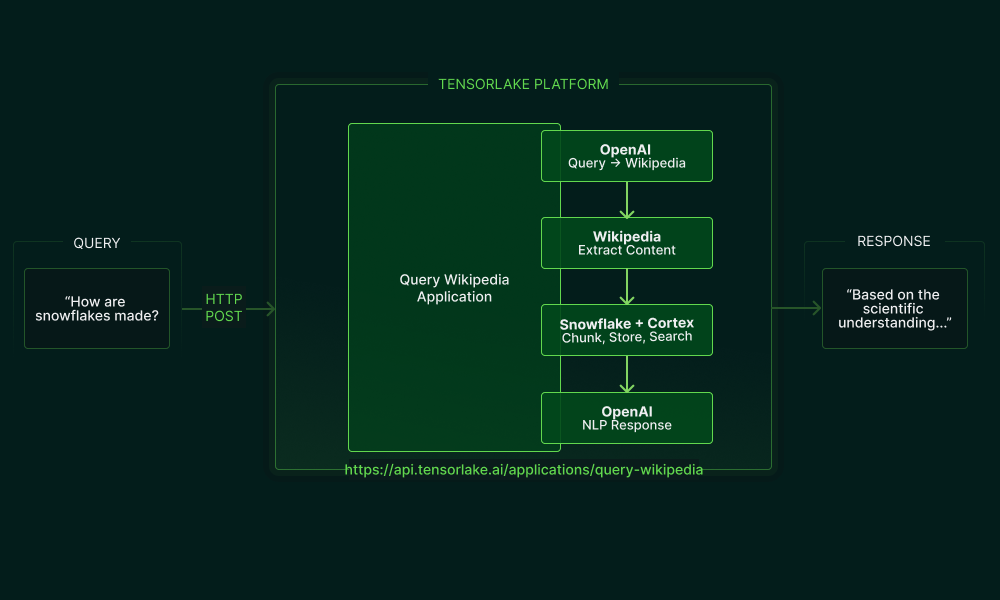
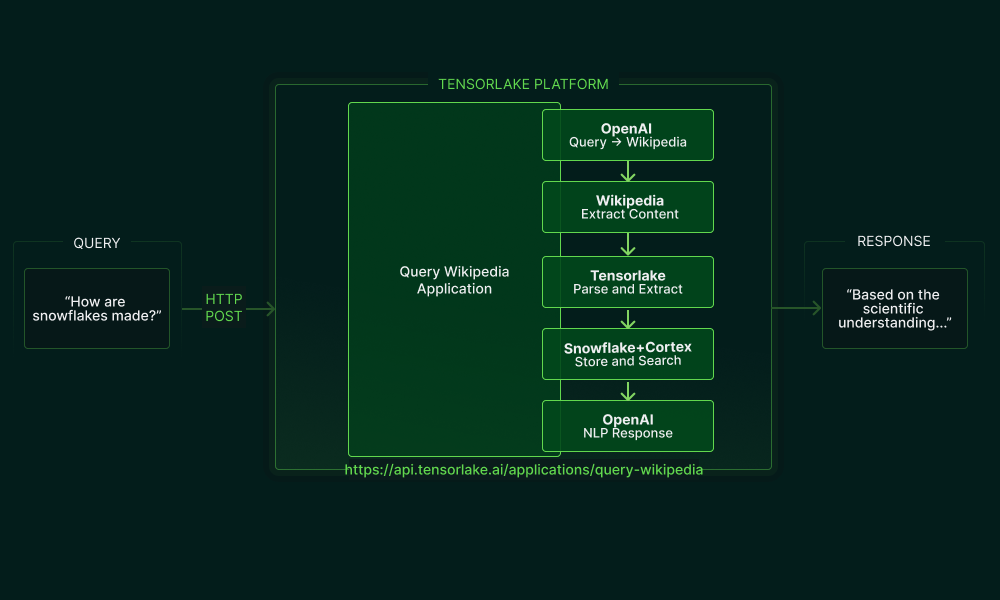
Adding the third example

diff --git a/query-wikipedia/README.md b/query-wikipedia/README.md
@@ -1,40 +1,50 @@
-# Wikipedia Knowledge Base with Snowflake Integration
+# Wikipedia Knowledge Base with Tensorlake + Snowflake + OpenAI
 
-This example demonstrates how to build an intelligent Q&A system that fetches Wikipedia articles, chunks them semantically, stores them in Snowflake, and answers questions using RAG (Retrieval-Augmented Generation).
+This example demonstrates how to build an intelligent Q&A system that uses Tensorlake's data processing capabilities to parse and chunk Wikipedia articles, stores them in Snowflake with Cortex Search, and generates answers using OpenAI's GPT-4.
 
-**NOTE: This example is coming soon**
+**NOTE: A full working example is coming soon**
 
 ## Overview
 
-This Tensorlake Application showcases a complete knowledge base pipeline:
+This Tensorlake application showcases a complete RAG pipeline with best-in-class tools:
 
-1. **`query-wikipedia.py`** - Intelligent Wikipedia article fetcher and Q&A system that:
-   - Uses AI to identify the most relevant Wikipedia article for any query
-   - Fetches and chunks articles into semantic segments
-   - Stores content in Snowflake with optional vector embeddings
-   - Performs intelligent retrieval using multiple search strategies
-   - Generates accurate answers using RAG with OpenAI
+1. **`query-wikipedia.py`** - Intelligent Wikipedia knowledge base that:
+   - Uses OpenAI GPT-4 to identify the most relevant Wikipedia article
+   - Fetches articles and uses **Tensorlake DocumentAI** for intelligent parsing and chunking
+   - Stores structured chunks in Snowflake with metadata
+   - Performs retrieval using **Snowflake Cortex Search** (with fallback options)
+   - Generates accurate answers using **OpenAI GPT-4** with retrieved context
+
+## Architecture
+
+- **Article Selection**: OpenAI identifies the best Wikipedia article for any query
+- **Document Processing**: Tensorlake DocumentAI handles parsing and chunking
+- **Storage & Search**: Snowflake stores chunks with Cortex Search for intelligent retrieval
+- **Answer Generation**: OpenAI GPT-4 generates contextual answers from retrieved chunks
+- **Persistent Knowledge**: Each query enriches your searchable knowledge base
 
 ## How It Works
+```
+User Query → OpenAI (topic extraction) → Wikipedia API → Tensorlake (parsing & chunking) 
+→ Snowflake (storage) → Cortex Search (retrieval) → OpenAI (answer generation) → Response
+```
 
-Ask any question → AI finds the right Wikipedia article → Content is chunked and stored → Semantic search finds relevant sections → AI generates an answer from the context
-
-![Diagram of the Tensorlake Application that stores wikipedia pages in Snowflake for NLP querying with OpenAI.](./Snowflake_Wikipedia_Diagram.png)
+![A diagram outlining the entire pipeline of the APplication](./Snowflake_Wikipedia_Diagram.png)
 
 ## Example Queries
 
 - "How do snowflakes form in the atmosphere?"
 - "What causes volcanic eruptions?"
-- "How does photosynthesis work?"
-- "What is quantum entanglement?"
+- "Explain quantum entanglement"
+- "How does photosynthesis work in plants?"
 
 ## Getting Started
 
 ### Prerequisites
 
-- Tensorlake API key
+- Tensorlake API key (for document processing)
+- OpenAI API key (for LLM capabilities)
 - Snowflake account with credentials
-- OpenAI API key for LLM capabilities
 - Python 3.11+
 
 ### Local Testing
@@ -61,18 +71,14 @@ export SNOWFLAKE_SCHEMA=ARTICLES
 python query-wikipedia.py
 ```
 
-Or modify the query in the script:
-```python
-query = "Your question here"
-```
-
 ### Deploying to Tensorlake Cloud
 
 #### 1. Set Secrets
 ```bash
+tensorlake secrets set TENSORLAKE_API_KEY='YOUR_TENSORLAKE_API_KEY'
 tensorlake secrets set OPENAI_API_KEY='YOUR_OPENAI_API_KEY'
 tensorlake secrets set SNOWFLAKE_ACCOUNT='YOUR_SNOWFLAKE_ACCOUNT'
-tensorlake secrets set SNOWFLAKE_USER='YOUR_SNOWFLAKE_USER'
+tensorlake secrets set SNOWFLAKE_USER='YOUR_SNOWFLAKE_USER'  
 tensorlake secrets set SNOWFLAKE_PASSWORD='YOUR_SNOWFLAKE_PASSWORD'
 tensorlake secrets set SNOWFLAKE_WAREHOUSE='COMPUTE_WH'
 tensorlake secrets set SNOWFLAKE_DATABASE='WIKIPEDIA_KB'
@@ -92,15 +98,14 @@ curl -X POST https://api.tensorlake.ai/applications/query-wikipedia \
   -d '{"query": "How do snowflakes form?"}'
 ```
 
-## Architecture
+## Key Features
 
-- **Intelligent Article Selection**: Uses LLM to map queries to Wikipedia topics
-- **Semantic Chunking**: Splits articles preserving paragraph boundaries
-- **Multi-Strategy Search**: Falls back gracefully from vector → semantic → keyword search
-- **Snowflake Storage**: Persistent knowledge base that grows with each query
-- **RAG Generation**: Combines retrieved context with LLM for accurate answers
+- **Intelligent Document Processing**: Tensorlake DocumentAI provides superior parsing that preserves semantic meaning
+- **Flexible Search**: Automatically uses Cortex Search when available, falls back to text search
+- **Growing Knowledge Base**: Each query adds to your persistent Wikipedia knowledge base
+- **Production Ready**: Handles errors gracefully with multiple fallback strategies
 
 ## Files
 
-- `query-wikipedia.py` - Main application that fetches, stores, and queries Wikipedia content
+- `query-wikipedia.py` - Main application orchestrating the entire pipeline
 - `README.md` - This file

diff --git a/document-qa/README.md b/document-qa/README.md
@@ -1,0 +1,143 @@
+# Document Q&A with Snowflake Cortex + OpenAI
+
+This example demonstrates a document Q&A system that accepts any document URL, uses Snowflake Cortex to parse and chunk it, performs intelligent search with Cortex Search, and generates answers using OpenAI.
+
+**NOTE: A full working example is coming soon**
+
+## Overview
+
+This Tensorlake application showcases Snowflake Cortex's complete document processing capabilities:
+
+1. **`document-qa.py`** - Document processing and Q&A system that:
+   - Accepts any document URL (PDFs, web pages, text files)
+   - Uses **Snowflake Cortex PARSE_DOCUMENT** for document parsing
+   - Chunks content using **Snowflake Cortex text splitting functions**
+   - Indexes chunks with **Snowflake Cortex Search** for hybrid retrieval
+   - Generates precise answers using **OpenAI GPT-4** with retrieved context
+
+## Architecture
+```
+Document URL → Fetch → Snowflake Cortex (parse & chunk) → Cortex Search (index)
+User Query → Cortex Search (retrieve) → OpenAI GPT-4 (generate) → Answer
+```
+
+![A diagram of the pipeline for this Application](./Snowflake_DocQA_Diagram.png)
+
+## Key Features
+
+- **Native Snowflake Processing**: All document processing happens within Snowflake
+- **Cortex Document Parser**: Handles PDFs, text, and various document formats
+- **Intelligent Chunking**: Cortex text splitting preserves semantic boundaries
+- **Hybrid Search**: Cortex Search combines keyword and semantic retrieval
+- **Contextual Answers**: OpenAI generates answers grounded in document content
+- **Unified Platform**: Minimal data movement - everything stays in Snowflake
+
+## Example Usage
+
+Process documents and ask questions:
+```python
+# Process a PDF document
+document_url = "https://www.sec.gov/Archives/edgar/data/1318605/000095017022000796/tsla-20211231.pdf"
+query = "What are the main risk factors?"
+
+# Process a web page
+document_url = "https://docs.snowflake.com/en/user-guide/cortex-search"
+query = "How does hybrid search work?"
+
+# Process a text document
+document_url = "https://raw.githubusercontent.com/example/repo/main/README.md"
+query = "What are the installation steps?"
+```
+
+## Getting Started
+
+### Prerequisites
+
+- Tensorlake API key (for orchestration)
+- Snowflake account with Cortex features enabled
+- OpenAI API key (for answer generation)
+- Python 3.11+
+
+### Snowflake Setup
+
+Ensure your Snowflake account has:
+- Cortex AI features enabled
+- Access to `SNOWFLAKE.CORTEX.PARSE_DOCUMENT`
+- Access to `SNOWFLAKE.CORTEX.SPLIT_TEXT_RECURSIVE_CHARACTER`
+- Cortex Search Service capabilities
+
+### Local Testing
+
+#### 1. Install Dependencies
+```bash
+pip install --upgrade tensorlake snowflake-connector-python openai requests
+```
+
+#### 2. Set Environment Variables
+```bash
+export TENSORLAKE_API_KEY=YOUR_TENSORLAKE_API_KEY
+export OPENAI_API_KEY=YOUR_OPENAI_API_KEY
+export SNOWFLAKE_ACCOUNT=YOUR_SNOWFLAKE_ACCOUNT
+export SNOWFLAKE_USER=YOUR_SNOWFLAKE_USER
+export SNOWFLAKE_PASSWORD=YOUR_SNOWFLAKE_PASSWORD
+export SNOWFLAKE_WAREHOUSE=COMPUTE_WH
+export SNOWFLAKE_DATABASE=DOCUMENT_QA
+export SNOWFLAKE_SCHEMA=CORTEX_DOCS
+```
+
+#### 3. Run Document Q&A
+```bash
+python document-qa.py --url "https://example.com/document.pdf" --query "Your question here"
+```
+
+### Deploying to Tensorlake Cloud
+
+#### 1. Set Secrets
+```bash
+tensorlake secrets set TENSORLAKE_API_KEY='YOUR_KEY'
+tensorlake secrets set OPENAI_API_KEY='YOUR_KEY'
+tensorlake secrets set SNOWFLAKE_ACCOUNT='YOUR_ACCOUNT'
+tensorlake secrets set SNOWFLAKE_USER='YOUR_USER'
+tensorlake secrets set SNOWFLAKE_PASSWORD='YOUR_PASSWORD'
+tensorlake secrets set SNOWFLAKE_WAREHOUSE='COMPUTE_WH'
+tensorlake secrets set SNOWFLAKE_DATABASE='DOCUMENT_QA'
+tensorlake secrets set SNOWFLAKE_SCHEMA='CORTEX_DOCS'
+```
+
+#### 2. Deploy Application
+```bash
+tensorlake deploy document-qa.py
+```
+
+#### 3. Query via API
+```bash
+curl -X POST https://api.tensorlake.ai/applications/document-qa \
+  -H "Authorization: Bearer YOUR_TENSORLAKE_API_KEY" \
+  -H "Content-Type: application/json" \
+  -d '{
+    "document_url": "https://example.com/document.pdf",
+    "query": "What are the key findings?"
+  }'
+```
+
+## How It Works
+
+1. **Document Fetching**: Application fetches document from URL
+2. **Cortex Parsing**: `PARSE_DOCUMENT` extracts text and structure
+3. **Cortex Chunking**: `SPLIT_TEXT_RECURSIVE_CHARACTER` creates semantic chunks
+4. **Storage & Indexing**: Chunks stored and indexed with Cortex Search
+5. **Query Processing**: Cortex Search finds relevant chunks
+6. **Answer Generation**: OpenAI GPT-4 synthesizes answer from context
+
+## Supported Document Types
+
+Via Snowflake Cortex:
+- **PDFs**: Including complex layouts and tables
+- **Text Files**: Plain text, markdown, CSV
+- **Office Documents**: When supported by Cortex
+- **Web Pages**: HTML content (fetched as text)
+
+## Files
+
+- `document-qa.py` - Main application for document Q&A
+- `README.md` - This file

diff --git a/README.md b/README.md
@@ -48,19 +48,25 @@ Try out the [code here](https://github.com/tensorlakeai/snowflake/tree/main/sec-
 
 ### Blueprint: Structured Data Extraction
 
-![Diagram of the Tensorlake Application that stores wikipedia pages in Snowflake for NLP querying with OpenAI.](./Snowflake_Wikipedia_Diagram.png)
+![Diagram of the Tensorlake Application that stores wikipedia pages in Snowflake for NLP querying with OpenAI.](./query-wikipedia/Snowflake_Wikipedia_Diagram.png)
 
-The Tensorlake Application receives natural language questions over HTTP, uses an LLM to identify relevant Wikipedia articles, fetches and parses the content, chunks it semantically, and stores it in your Snowflake database for building a persistent knowledge base. It then performs intelligent retrieval using vector similarity, semantic search, or keyword matching (depending on available Snowflake Cortex features), and generates accurate answers using RAG with OpenAI.
+The Tensorlake application orchestrates an intelligent Wikipedia Q&A system by combining best-in-class AI services. When you send a natural language question over HTTP, it uses OpenAI GPT-4 to identify the most relevant Wikipedia article, fetches the content, and then leverages Tensorlake DocumentAI to intelligently parse and chunk the text while preserving semantic structure. The chunks are stored in your Snowflake database where they build a persistent, searchable knowledge base. 
 
-The Application is written in pure Python with automatic function chaining - no external orchestration needed. It gracefully handles different Snowflake configurations, automatically falling back from advanced Cortex features to basic SQL when needed. Each query enriches your knowledge base, making future queries faster and more comprehensive.
+For retrieval, the system uses Snowflake Cortex Search when available (or falls back to SQL text search), finding the most relevant chunks for your query. Finally, it sends the retrieved context to OpenAI GPT-4 to generate an accurate, contextual answer. This creates a powerful RAG system that combines Tensorlake's document intelligence, Snowflake's scalable search, and OpenAI's language understanding.
 
-Tensorlake automatically manages the entire pipeline - from article fetching to answer generation - handling retries, state management, and scaling without any additional configuration. The application works both locally for testing and deploys instantly as a serverless API.
+The application is written in pure Python with Tensorlake's automatic function orchestration - no Airflow, no Kafka, no complex infrastructure needed. Each component handles its specialized task: Tensorlake for document processing, Snowflake for storage and search, OpenAI for language understanding. The system gracefully degrades when advanced features aren't available and automatically scales with Tensorlake's serverless infrastructure.
 
 Try out the [code here](./query-wikipedia).
 
 ### Blueprint: Document Indexing with Cortex
 
-**Coming Soon**
+The Tensorlake application orchestrates a streamlined document Q&A system powered entirely by Snowflake Cortex for document processing. When you send a document URL and question over HTTP, the application fetches the document and leverages Snowflake Cortex's native capabilities: PARSE_DOCUMENT extracts text and structure from PDFs and other formats, while SPLIT_TEXT_RECURSIVE_CHARACTER creates intelligent chunks that preserve semantic meaning.
+
+These chunks are stored directly in Snowflake where Cortex Search automatically builds hybrid search indexes combining keyword and semantic understanding. When you ask a question, Cortex Search retrieves the most relevant sections using its advanced retrieval algorithms. The retrieved context is then sent to OpenAI GPT-4, which generates precise, contextual answers grounded in the document content.
+
+This architecture keeps all data processing within Snowflake, minimizing data movement and maximizing security. Tensorlake's serverless platform handles the orchestration without any infrastructure management - no queues, no complex ETL, just pure Python functions that scale automatically. The combination of Snowflake Cortex's native document capabilities and OpenAI's language understanding creates a production-ready Q&A system that processes any document and answers any question, all while keeping your data secure within Snowflake's governed environment.
+
+Try out the [code here](./document-qa).
 
 ## Quick Overview: Tensorlake Applications
 

diff --git a/sec-filings/README.md b/sec-filings/README.md
@@ -13,6 +13,8 @@ The example processes 10 SEC filings across 4 companies to identify and categori
 
 You can try this example out using [this Colab Notebook](https://tlake.link/notebooks/snowflake-applications) as well, just make sure to add the two files (`process-sec.py` and `query-sec.py`) to your Notebook environment before starting.
 
+![A diagram showing the pipeline for this Application](./Snowflake_SECFilings_Diagram.png)
+
 ## Available Queries
 
 - `0` - Risk category distribution
